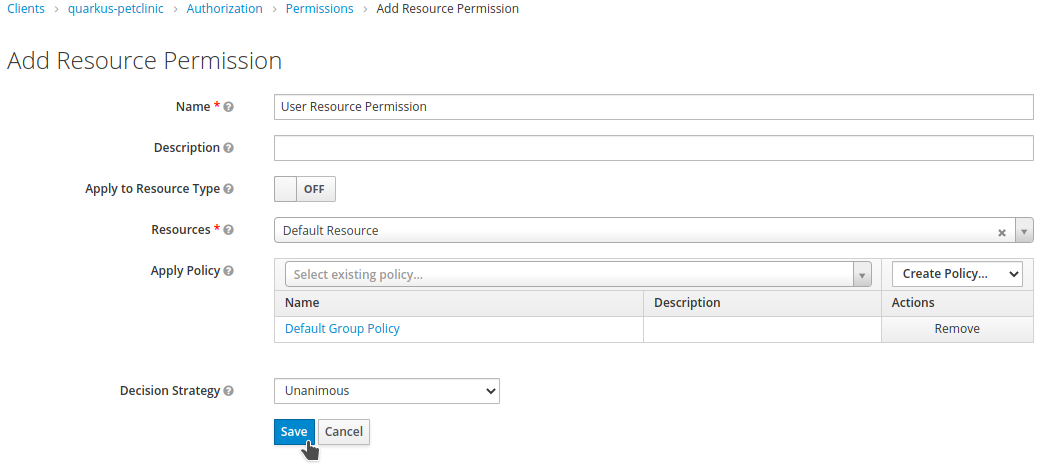
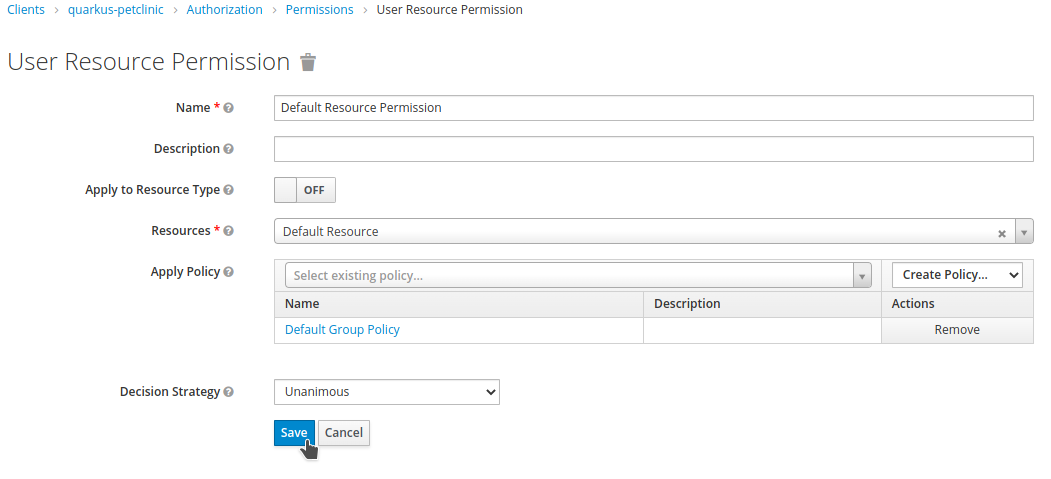
Deploying to gh-pages from @ aolle/rhsso-workshop@17d41b0b895f1fc2bc1dc29f480f205956e29028 🚀

diff --git a/setup.html b/setup.html
@@ -176,7 +176,7 @@ Please have them installed and configured before you get started with any of the
 <p>Red Hat Single Sign-On (aka RH-SSO) can be deployed using the Operator or the application template.</p>
 </div>
 <div class="paragraph">
-<p>The Operator automates and simplifies the administration tasks in OpenShift using the custom resources (CRs). It means that we can create RH-SSO resoures using these custom resources instead of using the RH-SSO admin console.</p>
+<p>The Operator automates and simplifies the administration tasks in OpenShift using the custom resources (CRs). It means that we can create RH-SSO resources using these custom resources instead of using the RH-SSO admin console.</p>
 </div>
 <div class="admonitionblock important">
 <table>
@@ -185,7 +185,7 @@ Please have them installed and configured before you get started with any of the
 <i class="fa icon-important" title="Important"></i>
 </td>
 <td class="content">
-The Operator performs a one-way syncronitzation of the CRs. If we modify a CR directly (for example, using <code>oc</code>) the changes show up in the RH-SSO admin console; however, if the same resource is modified using the admin console, those changes have no effect on the CR.
+The Operator performs a one-way synchronization of the CRs. If we modify a CR directly (for example, using <code>oc</code>) the changes show up in the RH-SSO admin console; however, if the same resource is modified using the admin console, those changes have no effect on the CR.
 </td>
 </tr>
 </table>
@@ -209,8 +209,8 @@ If the RH-SSO fails during deployment, check if a <code>LimitRange</code> exists
 <i class="fa icon-note" title="Note"></i>
 </td>
 <td class="content">
-For this worksop, we will assume that RH-SSO has been installed using the templates and imagestream method explained in <a href="#deployrhsso-templates">1.2.2 Deploying Red Hat Single Sign-On for OpenShift using the templates</a>.
-Additionally, for convenience and simplication purposes, the applications and services will be deployed in the same project where RH-SSO is deployed.
+For this workshop, we will assume that RH-SSO has been installed using the templates and imagestream method explained in <a href="#deployrhsso-templates">1.2.2 Deploying Red Hat Single Sign-On for OpenShift using the templates</a>.
+Additionally, for convenience and simplification purposes, the applications and services will be deployed in the same project where RH-SSO is deployed.
 </td>
 </tr>
 </table>
@@ -218,7 +218,7 @@ Additionally, for convenience and simplication purposes, the applications and se
 <div class="sect2">
 <h3 id="deployrhsso-operator"><a class="anchor" href="#deployrhsso-operator"></a>Deploying Red Hat Single Sign-On for OpenShift using the Operator</h3>
 <div class="paragraph">
-<p>You can use the OpenShift Container Platform web console to suscribe and deploy the <code>Red Hat Single Sign-on Operator</code>. The RH-SSO Operator simplifies the deployment process and its ease to use, but less flexible than the template based deployment.</p>
+<p>You can use the OpenShift Container Platform web console to subscribe and deploy the <code>Red Hat Single Sign-on Operator</code>. The RH-SSO Operator simplifies the deployment process and its ease to use, but less flexible than the template based deployment.</p>
 </div>
 <div class="paragraph">
 <p>Check the supported CR here:</p>
@@ -328,7 +328,7 @@ For this workshop, we will use the <code>sso76-ocp4-x509-https</code> template; 
   <a href="https://raw.githubusercontent.com/jboss-container-images/redhat-sso-7-openshift-image/sso76-dev/templates/sso76-image-stream.json" class="bare">https://raw.githubusercontent.com/jboss-container-images/redhat-sso-7-openshift-image/sso76-dev/templates/sso76-image-stream.json</a>
 
 oc replace -n openshift --force -f \
-  <a href="https://raw.githubusercontent.com/jboss-container-images/redhat-sso-7-openshift-image/sso76-dev/templates/reencrypt/ocp-4.x/sso76-ocp4-x509-https.json" class="bare">https://raw.githubusercontent.com/jboss-container-images/redhat-sso-7-openshift-image/sso76-dev/templates/reencrypt/ocp-4.x/sso76-ocp4-x509-https.json</a>
+  <a href="https://raw.githubusercontent.com/jboss-container-images/redhat-sso-7-openshift-image/sso76-dev/templates/reencrypt/ocp-4.x/sso76-ocp4-x509-postgresql-persistent.json" class="bare">https://raw.githubusercontent.com/jboss-container-images/redhat-sso-7-openshift-image/sso76-dev/templates/reencrypt/ocp-4.x/sso76-ocp4-x509-postgresql-persistent.json</a>
 
 oc -n openshift import-image rh-sso-7/sso76-openshift-rhel8:7.6 --from=registry.redhat.io/rh-sso-7/sso76-openshift-rhel8:7.6 --confirm</code></pre>
 </div>
@@ -366,7 +366,7 @@ oc -n openshift import-image rh-sso-7/sso76-openshift-rhel8:7.6 --from=registry.
 </div>
 <div class="listingblock lines_space console-input">
 <div class="content">
-<pre class="highlightjs highlight"><code class="language-bash hljs" data-lang="bash">oc new-app --template=sso76-ocp4-x509-https</code></pre>
+<pre class="highlightjs highlight"><code class="language-bash hljs" data-lang="bash">oc new-app --template=sso76-ocp4-x509-postgresql-persistent</code></pre>
 </div>
 </div>
 <div class="admonitionblock note">
@@ -376,7 +376,7 @@ oc -n openshift import-image rh-sso-7/sso76-openshift-rhel8:7.6 --from=registry.
 <i class="fa icon-note" title="Note"></i>
 </td>
 <td class="content">
-Write down the autogenerated <code>RH-SSO Administrator Username</code> and <code>RH-SSO Administrator Password</code> required for login into the RH-SSO admin console.
+Write down the auto generated <code>RH-SSO Administrator Username</code> and <code>RH-SSO Administrator Password</code> required for login into the RH-SSO admin console.
 </td>
 </tr>
 </table>

diff --git a/secapp.html b/secapp.html
@@ -445,7 +445,7 @@ Write down the application URL; it will be required during the security configur
 </div>
 </div>
 <div class="paragraph">
-<p>Let&#8217;s configure our client athorization.</p>
+<p>Let&#8217;s configure our client authorization.</p>
 </div>
 <div class="ulist">
 <ul>
@@ -498,7 +498,7 @@ Write down the application URL; it will be required during the security configur
 <div class="ulist">
 <ul>
 <li>
-<p>You will be redirected back again to the <code>Add Resource Permission</code> page. Set <code>User Resource Permission</code> as <code>Name</code>. <code>Default Resource</code> as <code>Resources</code>. The recently created policy should have been added automatically. Click <code>Save</code>.</p>
+<p>You will be redirected back again to the <code>Add Resource Permission</code> page. Set <code>Default Resource Permission</code> as <code>Name</code>. <code>Default Resource</code> as <code>Resources</code>. The recently created policy should have been added automatically. Click <code>Save</code>.</p>
 </li>
 </ul>
 </div>
@@ -664,7 +664,7 @@ quarkus.keycloak.policy-enforcer.enable=true</code></pre>
 <p>Browse to the context root of the Quarkus Petclinic application. The request will be redirected to the RH-SSO login page. Here, we checked that the anonymous access to the application is forbidden.</p>
 </li>
 <li>
-<p>Log in as <code>elisa</code>. The request will be redirected to the application after a sucessful login.</p>
+<p>Log in as <code>elisa</code>. The request will be redirected to the application after a successful login.</p>
 </li>
 <li>
 <p>Browse through the application, try the access to the VETERINARIANS section; the access should be denied, as <code>elisa</code> has the <code>assistant</code> role and the access is restricted to the <code>vet</code> role. An error on the application page will shown.</p>
